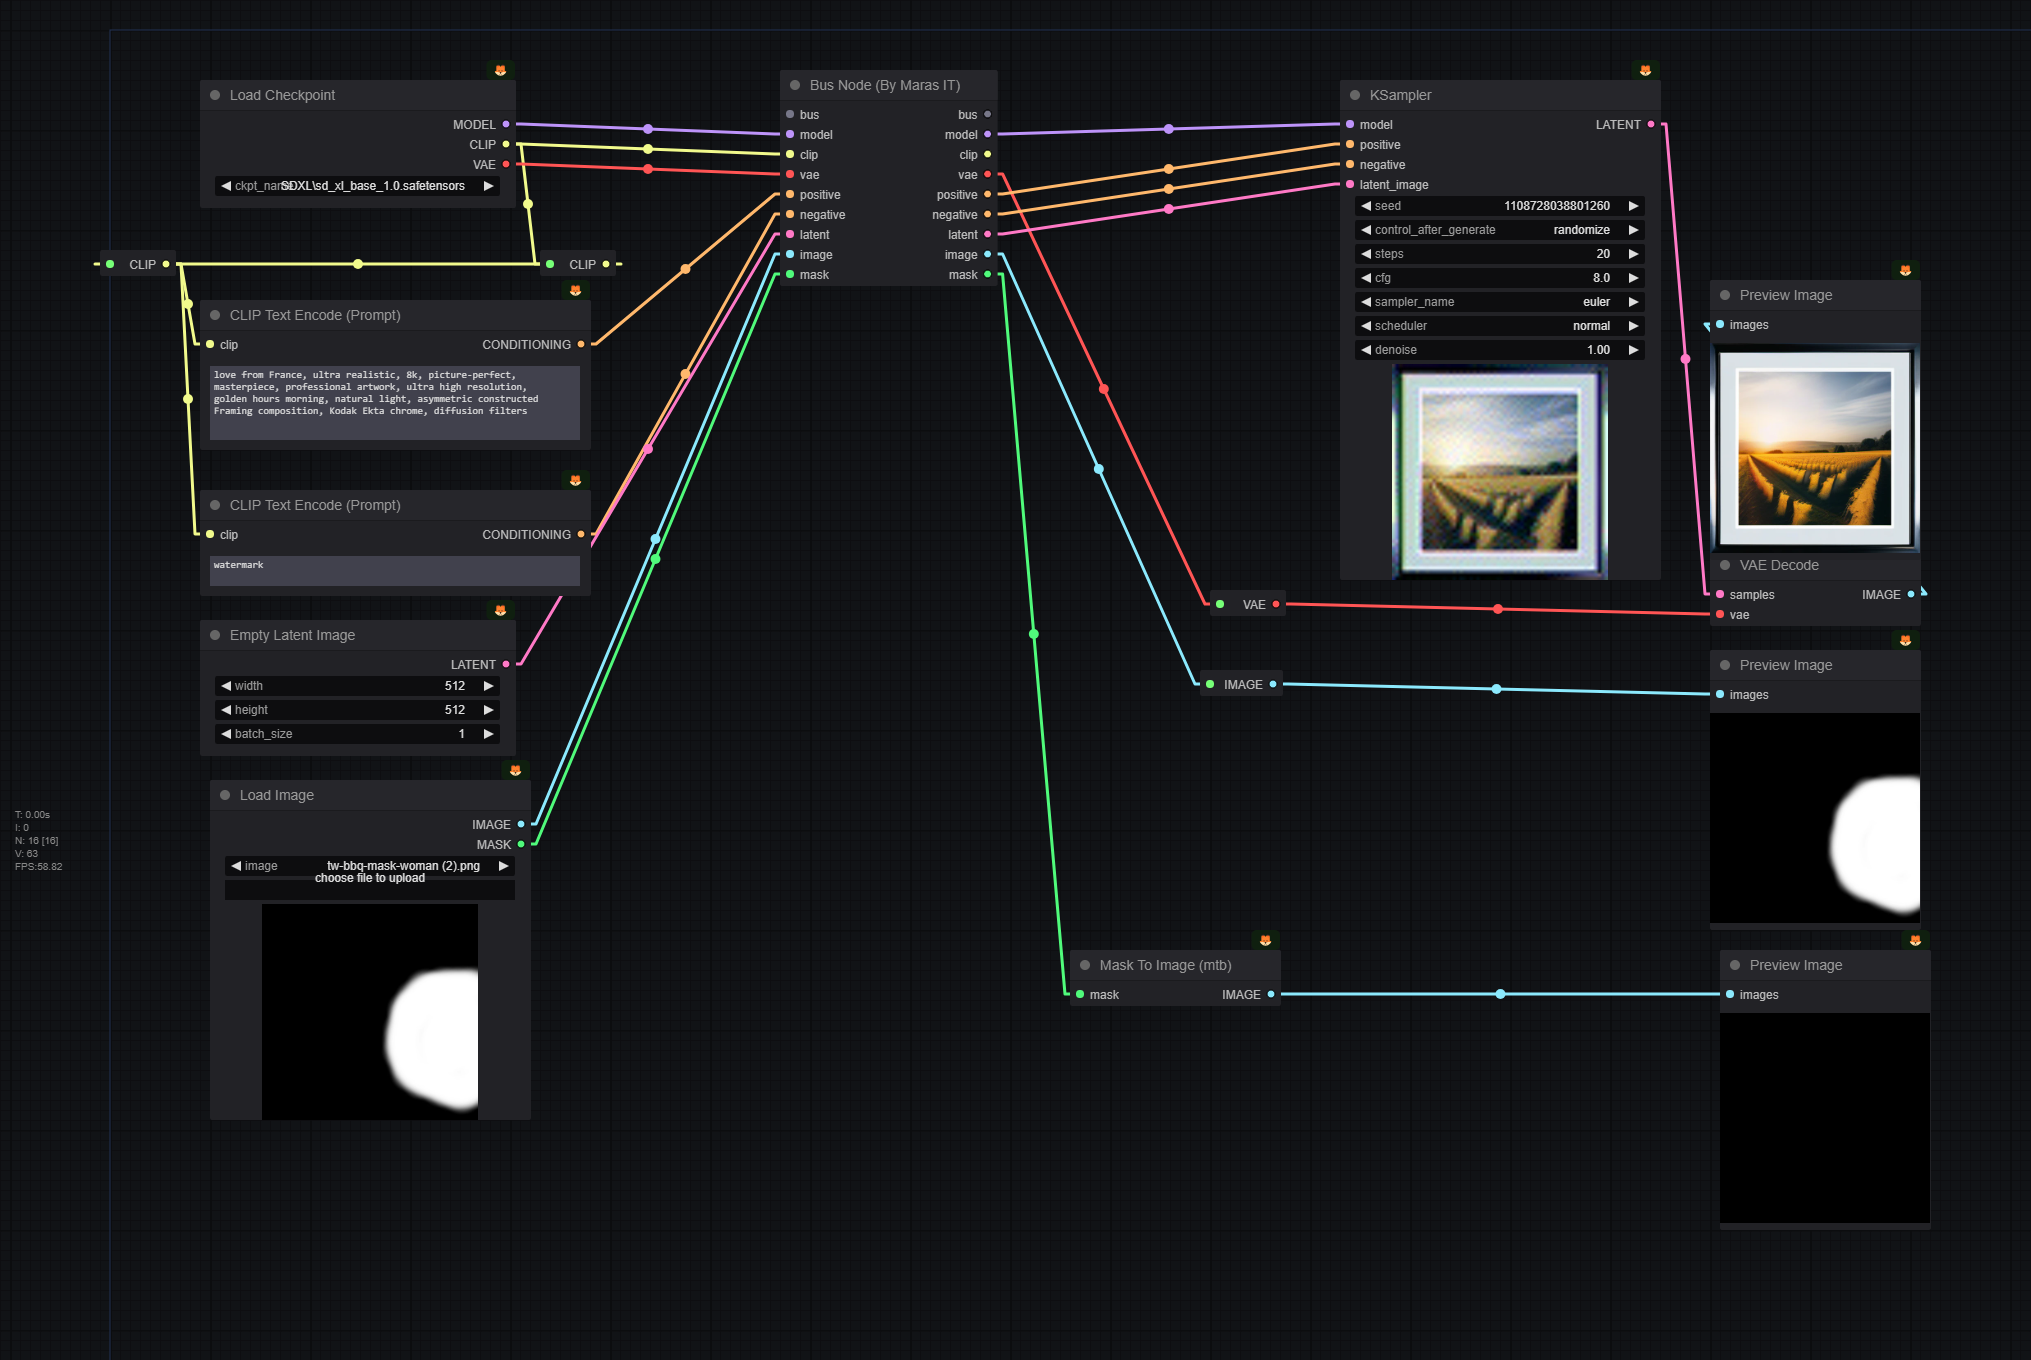
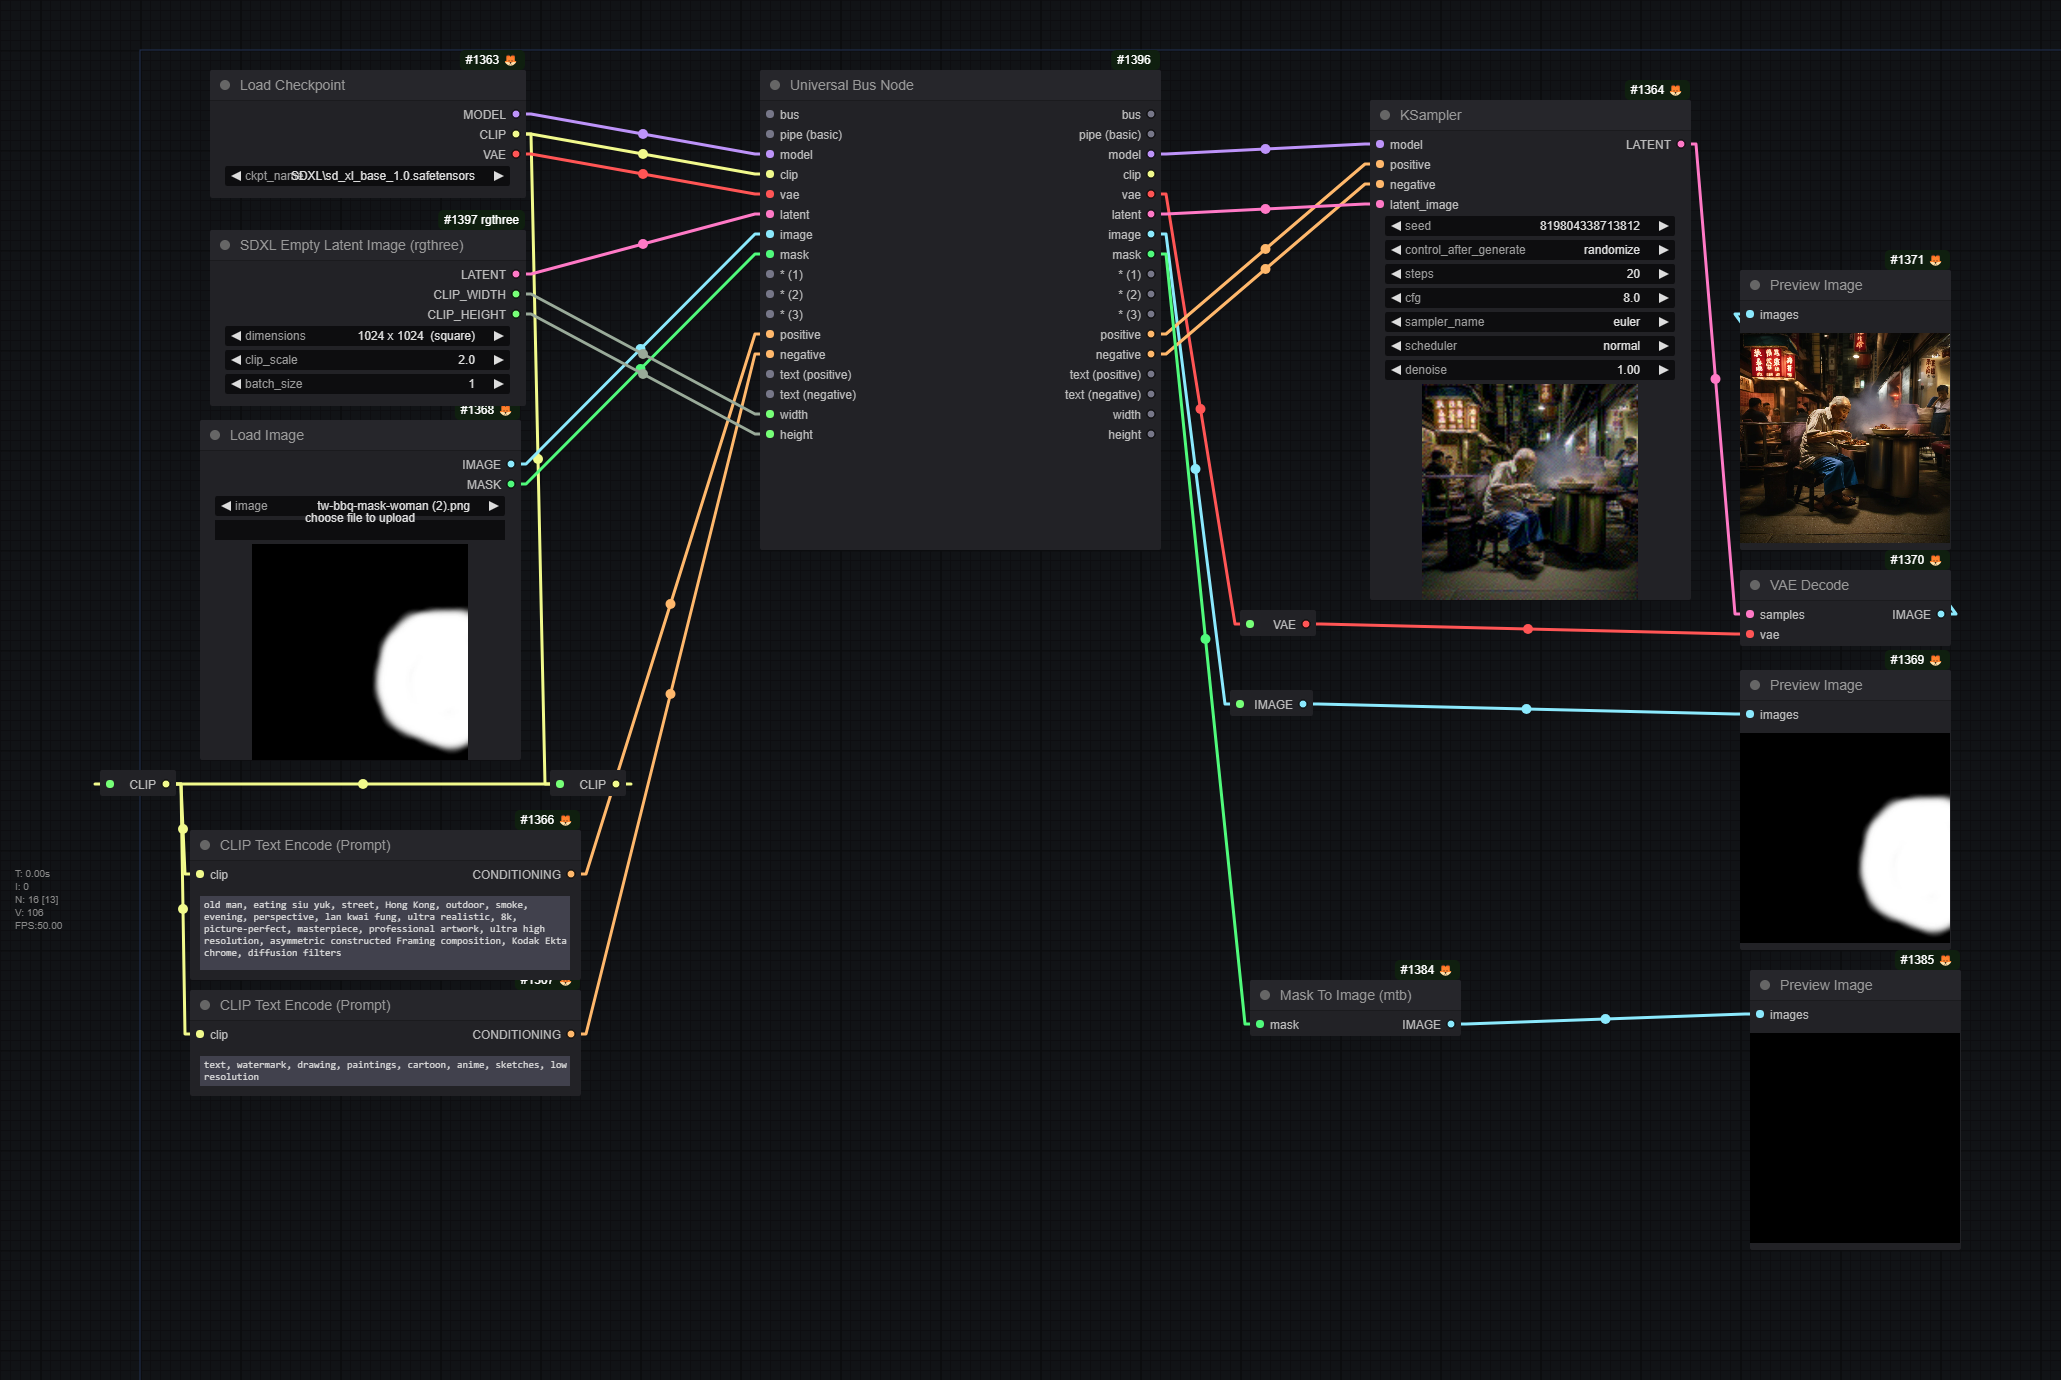
release of obsolete Bus_node + UniversalBusNode (py)

diff --git a/web/assets/js/UniversalBusNode.js b/web/assets/js/UniversalBusNode.js
@@ -499,7 +499,7 @@ const MarasitUniversalBusNode = {
 		// Run custom logic before a node definition is registered with the graph
 		
 		if (nodeData.name === 'MarasitUniversalBusNode') {
-			// console.log("[MarasIT - logging "+this.name+"]", "before register node: ", nodeData);
+			console.log("[MarasIT - logging "+this.name+"]", "before register node: ", nodeData);
 			// This fires for every node definition so only log once
 
 			MarasitUniversalBusNode.helper.onExecuted(nodeType)

diff --git a/py/nodes/UniversalBusNode.py b/py/nodes/UniversalBusNode.py
@@ -15,7 +15,7 @@
 from ... import __SESSIONS_DIR__, __PROFILES_DIR__
 
 from ..inc.nodes import Configuration as _CONF
-from ..inc.profiles.default import Node as ProfileNodeDefault
+from ..inc.profiles.universal import Node as ProfileNodeUniversal
 from ..inc.profiles.pipe_basic import Node as ProfileNodePipeBasic
 
 import os
@@ -29,46 +29,53 @@ class UniversalBusNode:
         return {
             "hidden": {"id":"UNIQUE_ID"},
             "required":{},
-            "optional": {}
+            "optional": {
+                "bus": ("BUS",),
+                "pipe (basic)": ("BASIC_PIPE",),
+                **ProfileNodeUniversal.ENTRIES,
+            }
         }
 
-    RETURN_TYPES = ()
-    RETURN_NAMES = ()
-
+    RETURN_TYPES = ("BUS", ) + ("BASIC_PIPE", ) + ProfileNodeUniversal.INPUT_TYPES
+    RETURN_NAMES = ("bus",) + ("pipe (basic)", ) + ProfileNodeUniversal.INPUT_NAMES
     OUTPUT_NODE = _CONF.OUTPUT_NODE
     CATEGORY = _CONF.CATEGORY
     FUNCTION = "universal_bus_fn"
     DESCRIPTION = "A Universal Bus/Pipe Node"
     
+    IS_UNIVERSAL = False
+    
     def universal_bus_fn(self, **kwargs):
         
-        session_id = "unique"  # As mentioned, session_id is always "unique"
-        node_id = kwargs.get('id', None)
-        profile = 'default'
+        if self.IS_UNIVERSAL:
+            session_id = "unique"  # As mentioned, session_id is always "unique"
+            node_id = kwargs.get('id', None)
+            profile = 'default'
 
-        # Constructing the file path for session_unique_node_{nid}.json
-        filename = f"session_{session_id}_node_{node_id}.json"
-        filepath = os.path.join(__SESSIONS_DIR__, filename)
+            # Constructing the file path for session_unique_node_{nid}.json
+            filename = f"session_{session_id}_node_{node_id}.json"
+            filepath = os.path.join(__SESSIONS_DIR__, filename)
 
-        # Load inputs from the file
-        if os.path.exists(filepath):
-            with open(filepath, 'r') as file:
-                profileByNode = json.load(file)
-        else:
-            raise FileNotFoundError(f"The file {filepath} does not exist.")
+            # Load inputs from the file
+            if os.path.exists(filepath):
+                with open(filepath, 'r') as file:
+                    profileByNode = json.load(file)
+            else:
+                raise FileNotFoundError(f"The file {filepath} does not exist.")
 
-        # Constructing the file path for session_unique_node_{nid}.json
-        filename = f"profile_{profileByNode}.json"
-        filepath = os.path.join(__PROFILES_DIR__, filename)
+            # Constructing the file path for session_unique_node_{nid}.json
+            filename = f"profile_{profileByNode}.json"
+            filepath = os.path.join(__PROFILES_DIR__, filename)
 
-        # Load inputs from the file
-        if os.path.exists(filepath):
-            with open(filepath, 'r') as file:
-                inputsByProfile = json.load(file)
+            # Load inputs from the file
+            if os.path.exists(filepath):
+                with open(filepath, 'r') as file:
+                    inputsByProfile = json.load(file)
         else:
             inputsByProfile = {
                 "bus": "BUS",
-                **ProfileNodeDefault.ENTRIES,
+                "pipe (basic)": "BASIC_PIPE",
+                **ProfileNodeUniversal.ENTRIES,
             }
 
         # Initialize the bus tuple with None values for each parameter
@@ -76,31 +83,40 @@ class UniversalBusNode:
         for name in inputsByProfile.keys():
             if name != 'bus' and not name.startswith('pipe'):
                 inputs[name] = None
-        outputs = inputs.copy()
+        bus_outputs = inputs.copy()
+        pipe_basic_outputs = {}
+        
         in_bus = kwargs.get('bus', (None,) * len(inputs))
 
         # print(in_bus)
-        # Update outputs based on in_bus values
+        # Update bus_outputs based on in_bus values
         for i, name in enumerate(inputs):
             if in_bus[i] is not None:  # Only update if in_bus value is not None
-                outputs[name] = in_bus[i]
+                bus_outputs[name] = in_bus[i]
+                if name in ['model', 'clip', 'vae', 'positive', 'negative']:
+                    pipe_basic_outputs[name] = bus_outputs[name]
                 
         in_pipe = kwargs.get('pipe (basic)', (None,) * len(inputs))
         # print(in_pipe)
         # Update outputs based on in_bus values
         for i, name in enumerate(inputs):
             if in_pipe[i] is not None:  # Only update if in_bus value is not None
-                outputs[name] = in_pipe[i]
+                bus_outputs[name] = in_pipe[i]
+                if name in ['model', 'clip', 'vae', 'positive', 'negative']:
+                    pipe_basic_outputs[name] = bus_outputs[name]
 
-        # Update outputs based on inputs and current outputs
+        # Update bus_outputs based on inputs and current bus_outputs
         for name, value in inputs.items():
             inputs[name] = kwargs.get(name, None)
-            outputs[name] = _CONF.determine_output_value(name, inputs[name], outputs[name])
+            bus_outputs[name] = _CONF.determine_output_value(name, inputs[name], bus_outputs[name])
+            if name in ['model', 'clip', 'vae', 'positive', 'negative']:
+                pipe_basic_outputs[name] = bus_outputs[name]
 
-        # _CONF.ensure_required_parameters(outputs)
-        _CONF.handle_special_parameters(outputs)
+        # _CONF.ensure_required_parameters(bus_outputs)
+        _CONF.handle_special_parameters(bus_outputs)
 
         # Prepare and return the output bus tuple with updated values
-        out_bus = tuple(outputs[name] for name in outputs)
+        out_bus = tuple(bus_outputs[name] for name in ProfileNodeUniversal.INPUT_NAMES)
+        out_pipe_basic = tuple(pipe_basic_outputs[name] for name in ProfileNodePipeBasic.INPUT_NAMES)
         
-        return (out_bus,) + (out_bus,) + out_bus
+        return (out_bus,) + (out_pipe_basic,) + out_bus

diff --git a/py/nodes/Bus_node.py b/py/nodes/Bus_node.py
@@ -1,0 +1,75 @@
+#!/usr/bin/env python3
+# -*- coding:utf-8 -*-
+#
+###
+#
+# Bus.  Converts X connectors into one, and back again.  You can provide a bus as input
+#       or the X separate inputs, or a combination.  If you provide a bus input and a separate
+#       input (e.g. a model), the model will take precedence.
+#
+#       The term 'bus' comes from computer hardware, see https://en.wikipedia.org/wiki/Bus_(computing)
+#       Largely inspired by Was Node Suite - Bus Node 
+#
+###
+
+import torch
+
+class Bus_node:
+    def __init__(self):
+        self.default_mask = torch.zeros(1, 1, 1024, 1024)  # Example default mask
+
+    @classmethod
+    def INPUT_TYPES(cls):
+        return {
+            "required":{},
+            "optional": {
+                "bus" : ("BUS",),
+                "model": ("MODEL",),
+                "clip": ("CLIP",),
+                "vae": ("VAE",),
+                "positive": ("CONDITIONING",),
+                "negative": ("CONDITIONING",),
+                "latent": ("LATENT",),
+                "image": ("IMAGE",),
+                "mask": ("MASK",),
+            }
+        }
+
+    _INPUT_TYPES = ("MODEL", "CLIP", "VAE", "CONDITIONING", "CONDITIONING", "LATENT", "IMAGE", "MASK",)
+    RETURN_TYPES = ("BUS", ) + _INPUT_TYPES
+    _INPUT_NAMES = ("model", "clip", "vae", "positive", "negative", "latent", "image", "mask")
+    RETURN_NAMES = ("bus",) + _INPUT_NAMES
+    FUNCTION = "bus_fn"
+    CATEGORY = "MarasIT/utils"
+    
+    def bus_fn(self, **kwargs):
+        # Initialize the bus tuple with None values for each parameter
+        bus = kwargs.get('bus', (None,) * len(self._INPUT_NAMES))
+        if len(bus) != len(self._INPUT_NAMES):
+            raise ValueError("The 'bus' tuple must have the same number of elements as '_INPUT_NAMES'")
+
+        outputs = {}
+        for name, bus_value in zip(self._INPUT_NAMES, bus):
+            _input = kwargs.get(name, bus_value)
+            outputs[name] = self._determine_output_value(name, _input, bus_value)
+
+        self._ensure_required_parameters(outputs)
+        self._handle_special_parameters(outputs)
+
+        # Prepare and return the output bus tuple with updated values
+        out_bus = tuple(outputs[name] for name in self._INPUT_NAMES)
+        return (out_bus,) + out_bus
+
+    def _determine_output_value(self, name, _input, bus_value):
+        if name in ('image', 'mask') and isinstance(_input, torch.Tensor):
+            return _input if _input.nelement() > 0 and (name != 'mask' or _input.any()) else bus_value
+        return _input if _input is not None else bus_value
+
+    def _ensure_required_parameters(self, outputs):
+        for param in ('model', 'clip', 'vae'):
+            if not outputs.get(param):
+                raise ValueError(f'Either "{param}" or bus containing a {param} should be supplied')
+
+    def _handle_special_parameters(self, outputs):
+        if outputs.get('mask') is None or torch.numel(outputs['mask']) == 0:
+            outputs['mask'] = self.default_mask

diff --git a/Marasit_Nodes.py b/Marasit_Nodes.py
@@ -12,6 +12,7 @@ from .py.nodes.UniversalBusNode import UniversalBusNode
 from .py.inc.profiles.default import Node as default
 from .py.inc.profiles.pipe_basic import Node as pipe_basic
 from .py.inc.profiles.pipe_detailer import Node as pipe_Detailer
+from .py.nodes.Bus_node import Bus_node
 from .py.nodes.BusNode import BusNode
 from .py.nodes.PipeNodeBasic import PipeNodeBasic
 from .py.nodes.BusPipeNode import BusPipeNode
@@ -26,18 +27,20 @@ WEB_DIRECTORY = "./web/assets/js"
 
 # NODE MAPPING
 NODE_CLASS_MAPPINGS = {
-    "MarasitBusNode": BusNode,
-    "MarasitBusPipeNode": BusPipeNode,
-    "MarasitPipeNodeBasic": PipeNodeBasic,
-    # "MarasitUniversalBusNode": UniversalBusNode
+    "MarasitBusNode": Bus_node,
+    # "MarasitBusNode": BusNode,
+    # "MarasitBusPipeNode": BusPipeNode,
+    # "MarasitPipeNodeBasic": PipeNodeBasic,
+    "MarasitUniversalBusNode": UniversalBusNode
 }
 
 # A dictionary that contains the friendly/humanly readable titles for the nodes
 NODE_DISPLAY_NAME_MAPPINGS = {
-    "MarasitBusNode": "Bus Node - Simple",
-    "MarasitBusPipeNode": "Bus/Pipe Node",
-    "MarasitPipeNodeBasic": "BasicPipe Node",
-    # "MarasitUniversalBusNode": "Universal Bus Node"
+    "MarasitBusNode": "Bus Node (OBSOLETE - use the universal bus instead)",
+    # "MarasitBusNode": "Bus Node - Simple",
+    # "MarasitBusPipeNode": "Bus/Pipe Node",
+    # "MarasitPipeNodeBasic": "BasicPipe Node",
+    "MarasitUniversalBusNode": "Universal Bus Node"
 }
 
 if hasattr(PromptServer, "instance"):

diff --git a/py/inc/profiles/default.py b/py/inc/profiles/default.py
@@ -13,32 +13,36 @@ class Node:
         "MODEL", 
         "CLIP", 
         "VAE", 
-        "CONDITIONING", 
-        "CONDITIONING", 
-        "STRING", 
-        "STRING", 
         "LATENT", 
         "IMAGE", 
         "MASK", 
         _TYPES['ANY'], 
         _TYPES['ANY'], 
         _TYPES['ANY'],
+        "CONDITIONING", 
+        "CONDITIONING", 
+        "STRING", 
+        "STRING", 
+        "INT",
+        "INT",
     )
 
     INPUT_NAMES = (
         "model", 
         "clip", 
         "vae", 
-        "positive", 
-        "negative", 
-        "text (positive)", 
-        "text (negative)", 
-        "latent", 
+        "latent",
         "image", 
         "mask", 
         "* (1)", 
         "* (2)", 
-        "* (3)"
+        "* (3)",
+        "positive", 
+        "negative", 
+        "text (positive)", 
+        "text (negative)", 
+        "width", 
+        "height", 
     )
     
     ENTRIES = _CONF.generate_entries(INPUT_NAMES, INPUT_TYPES)

diff --git a/py/inc/nodes.py b/py/inc/nodes.py
@@ -38,9 +38,12 @@ class Configuration:
                 entries[name] = type_
             else:
                 if name.startswith("text"):
-                    entries[name] = (type_, {"forceInput": True})
+                    entries[name] = (type_, {"forceInput": True, "multiline": True})
+                elif name == "width" or name == "height":
+                    entries[name] = (type_, {"default": 1024, "min": 1, "max": 8192, "forceInput": True})
                 else:
                     entries[name] = (type_,)
+                    
         return entries
     
     def determine_output_value(name = '', input_value = None, preset_value = None):

diff --git a/py/inc/profiles/universal.py b/py/inc/profiles/universal.py
@@ -1,0 +1,21 @@
+#!/usr/bin/env python3
+# -*- coding:utf-8 -*-
+#
+###
+
+from ..nodes import Configuration as _CONF
+from .default import Node as default
+from .pipe_basic import Node as pipe_basic
+from .pipe_detailer import Node as pipe_detailer
+
+class Node:
+    
+    _ENTRIES = {**default.ENTRIES_JS, **pipe_basic.ENTRIES_JS, **pipe_detailer.ENTRIES_JS}
+
+    # Convert to sets to remove duplicates and merge
+    INPUT_TYPES = tuple(list(_ENTRIES.values()))
+
+    INPUT_NAMES = tuple(list(_ENTRIES.keys()))
+        
+    ENTRIES = _CONF.generate_entries(INPUT_NAMES, INPUT_TYPES)
+    ENTRIES_JS = _CONF.generate_entries(INPUT_NAMES, INPUT_TYPES, 'js')

diff --git a/__init__.py b/__init__.py
@@ -49,7 +49,7 @@ if not os.path.exists(profiles_dir):
     os.makedirs(profiles_dir)
 __PROFILES_DIR__ = profiles_dir
 
-from .Marasit_Nodes import NODE_CLASS_MAPPINGS, NODE_DISPLAY_NAME_MAPPINGS, WEB_DIRECTORY
+from .Marasit_Nodes import NODE_CLASS_MAPPINGS, NODE_DISPLAY_NAME_MAPPINGS #, WEB_DIRECTORY
 
 __all__ = [ 'NODE_CLASS_MAPPINGS', 'NODE_DISPLAY_NAME_MAPPINGS' ]
 
